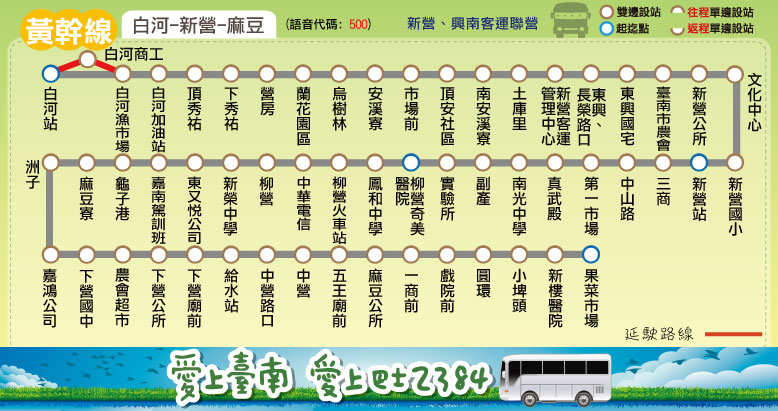
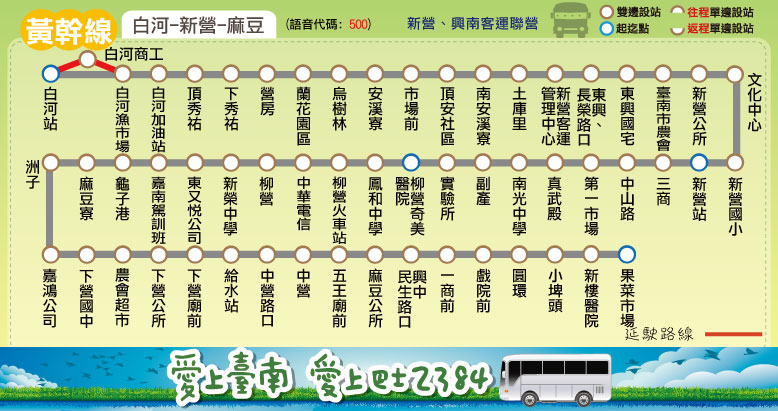
finished yellow line, modify to show special_tag and skip_stop concurrently

Changed region(s): [[0.5861, 0.5839, 0.8329, 0.8175], [0.4936, 0.6423, 0.5861, 0.7883]]

diff --git a/yellow/yellow.html b/yellow/yellow.html
@@ -2,28 +2,28 @@
 <html xmlns="http://www.w3.org/1999/xhtml">
 <head>
 <meta http-equiv="Content-Type" content="text/html; charset=utf-8" />
-<title>大台南公車 ─ 橘幹線 路線資訊</title>
+<title>大台南公車 ─ 黃幹線 路線資訊</title>
 <meta name="keywords" content="" />
 <meta name="description" content="" />
 <style type="text/css">
 @import url("../css/table_style.css");
 @import url("../css/default.css");
-select.get_fare{background-color: #ff7f05;}
+select.get_fare{background-color: #FFD306;}
 select.get_fare option.option1
-{background-color: #ff7f05;}
+{background-color: #FFD306;}
 select.get_fare option.option2
-{background-color: #FFC991;}
+{background-color: #FDFF73;}
 select.get_fare option.option3
-{background-color: #FFAC55;}
+{background-color: yellow;}
 select.get_fare option.option4
-{background-color: #FFD8AF;}
+{background-color: #FDFF55;}
 select.get_fare option.option5
-{background-color: #FF8F19;}
+{background-color: #D9B300;}
 select.get_fare option.option6
-{background-color: #FFBB73;}
+{background-color: #FCFF19;}
 </style>
 <script language="javascript" src="../route/msg.js"></script>
-<script language="javascript" src="../route/fare_and_time/orange.js"></script>
+<script language="javascript" src="../route/fare_and_time/yellow.js"></script>
 <script language="javascript" src="../route/fare_and_time/show_fare_tool.js"></script>
 </head>
 <body>
@@ -31,7 +31,7 @@ select.get_fare option.option6
 	<div id="header" class="container">
 		<div id="menu">
 			<p align="center">
-			<a href="index.html"><img src="../img/orange_logo.png"></a>
+			<a href="index.html"><img src="../img/yellow_logo.png"></a>
 			</p>
 			<ul>
 				<li class="current_page_item"><a href="#" accesskey="1" title="">路線圖</a></li>
@@ -42,9 +42,9 @@ select.get_fare option.option6
 			</ul>
 		</div>
 		<div id="logo">
-			<img src="../route/orange/orange.jpg">
+			<img src="../route/yellow/yellow.jpg">
 			<p></p>
-			<iframe src="https://mapsengine.google.com/map/embed?mid=zT0XIOZRtlhg.kR8K7xUyvQtw" width="800" height="500"></iframe>
+			<iframe src="https://mapsengine.google.com/map/embed?mid=zT0XIOZRtlhg.kbnckjpTnNGs" width="800" height="500"></iframe>
 		</div>
 	</div>
 </div>
@@ -52,21 +52,21 @@ select.get_fare option.option6
 	<a name="info"></a>
 	<div id="routeinfo" class="container">
 		<div class="title">
-			<h2>大台南公車 ─ 橘幹線　路線資訊</h2>
-			<span class="byline">Tainan Bus orange Line, Route Information</span> </div>
+			<h2>大台南公車 ─ 黃幹線　路線資訊</h2>
+			<span class="byline">Tainan Bus yellow Line, Route Information</span> </div>
 		<div class="content">
 			<table border="0">
 				<tr>
 					<td>起訖點</td>
-					<td>佳里 － 玉井</td>
+					<td>白河 － 麻豆</td>
 				</tr>
 				<tr>
 					<td>營運公司</td>
-					<td>興南客運</td>
+					<td>新營客運、興南客運</td>
 				</tr>
 				<tr>
 					<td>首／末班車發車時刻</td>
-					<td>往 玉井：05:55／21:25<br />往 佳里：05:55／21:25</td>
+					<td>往 麻豆：06:00／20:00<br />往 白河：06:00／20:00</td>
 				</tr>
 				<tr>
 					<td>班距</td>
@@ -78,7 +78,7 @@ select.get_fare option.option6
 				</tr>
 			</table>
 			<p>　</p>
-			<a href="http://2384.tainan.gov.tw:8080/AGPSRemoteQuery3/ajaxBus.jsp?pathId=1400&locale=zh_TW" class="button">公車動態資訊</a> </div>
+			<a href="http://2384.tainan.gov.tw:8080/AGPSRemoteQuery3/ajaxBus.jsp?pathId=1500&locale=zh_TW" class="button">公車動態資訊</a> </div>
 	</div>
 </div>
 <div id="wrapper3">
@@ -89,7 +89,7 @@ select.get_fare option.option6
 			<span class="byline">Ticket Fare</span> </div>
 		<div class="content">
 			<script language="javascript">
-				create_select_menu(orange_interval_stop, 6, 'orange');
+				create_select_menu(yellow_interval_stop, 6, 'yellow');
 			</script>
 			<br/>
 			<table>
@@ -109,7 +109,7 @@ select.get_fare option.option6
 			</table>
 			<p>　</p>
 			<script language="javascript">
-				print_fare_table(orange_interval_name, orange_fare, '#FFC991');
+				print_fare_table(yellow_interval_name, yellow_fare, '#FDFF73');
 				document.write('<p>　</p>');
 				document.write(MeteredMSG + PromotionMSG);
 			</script>
@@ -125,13 +125,14 @@ select.get_fare option.option6
 			<span class="byline">Bus schedule</span> </div>
 		<div class="content">
 			<script language="javascript">
-				document.write('<h2><font color="orange">佳里-&gt;玉井</font></h2>');
-				create_time_schedule(orange_main_stop_name, orange_main_stop_time_consume, orange_important_stop, orange_time_go, false);
+				document.write('<h2><font color="orange">白河-&gt;麻豆</font></h2>');
+				create_time_schedule(yellow_main_stop_name, yellow_main_stop_time_consume, yellow_important_stop, yellow_time_go, false);
 				document.write('<p>　</p>');
-				document.write('<h2><font color="orange">玉井-&gt;佳里</font></h2>');
-				create_time_schedule(orange_main_stop_name, orange_main_stop_time_consume, orange_important_stop, orange_time_return, true);
+				document.write('<h2><font color="orange">麻豆-&gt;白河</font></h2>');
+				create_time_schedule(yellow_main_stop_name, yellow_main_stop_time_consume, yellow_important_stop, yellow_time_return, true);
 				document.write(TimeScheduleMSG);
 			</script>
+			<h3><font color="#000055">「繞」表示繞駛白河商工</font></h3>
 		</div>
 	</div>
 </div>
@@ -139,19 +140,19 @@ select.get_fare option.option6
 	<a name="transfer"></a>
 	<div id="transfer" class="container">
 		<div class="title">
-			<h2>大台南公車－橘幹線 主要轉乘點資訊</h2>
-			<span class="byline">Tainan bus orange line, Transfer information</span>
+			<h2>大台南公車－黃幹線 主要轉乘點資訊</h2>
+			<span class="byline">Tainan bus yellow line, Transfer information</span>
 		</div>
 		<div class="content">
 			<table>
 				<tr>
-					<th rowspan="7">善化火車站</th>
+					<th rowspan="7">新營</th>
 					<td style="text-align: center"><img src="../route/transfer/railway.png"></td>
-					<td>台鐵善化站</td>
+					<td>台鐵新營站</td>
 				</tr>
 				<tr>
-					<td style="text-align: center"><img src="../route/transfer/orange_transfer_logo.png"></td>
-					<td>橘幹線</td>
+					<td style="text-align: center"><img src="../route/transfer/brown_transfer_logo.png"></td>
+					<td>棕幹線</td>
 				</tr>
 				<tr>
 					<td style="text-align: center"><img src="../route/transfer/yellow_transfer_logo.png"></td>

diff --git a/route/fare_and_time/yellow.js b/route/fare_and_time/yellow.js
@@ -1,0 +1,48 @@
+yellow_interval_name = ["白河","下秀祐","營房","烏樹林","安溪寮","新營","副產","柳營","龜子港","麻豆寮","下營","中營","麻豆"];
+yellow_interval_stop = [
+["白河","白河商工","白河漁市場","白河加油站"], // 白河
+["頂秀祐","下秀祐"], // 下秀祐
+["營房"], // 營房
+["蘭花園區","烏樹林"], // 烏樹林
+["安溪寮","市場前","頂安社區","南安溪寮","土庫里"], // 安溪寮
+["新營客運管理中心","東興、長榮路口","東興國宅","臺南市農會","新營公所","文化中心",
+"新營國小","新營","三商","中山路","第一市場","真武殿","南光中學"], // 新營
+["副產","實驗所"], // 副產
+["柳營奇美醫院","鳳和中學","柳營火車站","中華電信","柳營","新榮中學","東又悅公司"], // 柳營
+["嘉南駕訓班","龜子港"], // 龜子港
+["麻豆寮","洲子","嘉鴻公司"], // 麻豆寮
+["下營國中","農會超市","下營公所","下營廟前"], // 下營
+["給水站","中營路口","中營"], // 中營
+["五王廟前","麻豆公所","興中、民生路口","一商前","戲院前","圓環","小埤頭","新樓醫院","果菜市場"] // 麻豆
+];
+yellow_fare = [
+[26],
+[26,26],
+[26,26,26],
+[26,26,26,26],
+[26,26,26,26,26],
+[42,37,34,28,26,26],
+[51,46,43,36,30,26,26],
+[65,60,57,51,44,26,26,26],
+[74,69,66,60,54,32,26,26,26],
+[80,75,72,66,60,38,29,26,26,26],
+[93,88,84,78,72,51,42,28,26,26,26],
+[103,98,95,89,82,61,52,38,29,26,26,26],
+[133,128,125,119,112,91,82,68,59,53,40,30,26]
+];
+// format = [time at the start stop] or
+// [time, other] or
+// [time, start_stop, end_stop, other]
+yellow_main_stop_name = ["白河","蘭花園區","新營","柳營<br />奇美醫院","柳營<br />火車站","麻豆寮","下營公所","一商前","果菜市場"];
+yellow_main_stop_time_consume = [0, 9, 25, 33, 36, 46, 53, 71, 80];
+yellow_important_stop = [0, 2, 8]; // 白河, 新營, 果菜市場
+yellow_time_go = [["6:00",[1]],["6:20",0,2,[1]],["6:30",[1]],["6:45",0,3,[1]],["7:15",0,2,[1]],["7:30",[1]],
+["8:00",0,2],["8:30"],["9:00",0,2],["9:30"],["10:00",0,2],["10:30"],["11:00",0,2],["11:30"],["12:00",0,2],
+["12:30"],["13:00",0,2],["13:30"],["14:00",0,2],["14:30"],["15:00",0,2],["15:30"],["16:00",0,2],["16:30"],
+["17:00",0,2],["17:30",['繞',1]],["18:00",[1]],["18:15",0,2,[1]],["18:30",0,2,[1]],["19:00",[1]],["20:00",[1]]
+];
+yellow_time_return = [["6:20",2,0,[1]],["6:45",2,0,[1]],["6:50",2,0,[1]],["6:00",['繞',1]],["6:30",[1]],["7:55",2,0],
+["7:30"],["8:55",2,0],["8:30"],["9:55",2,0],["9:30"],["10:55",2,0],["10:30"],["11:55",2,0],["11:30"],["12:55",2,0],
+["12:30"],["13:55",2,0],["13:30"],["14:55",2,0],["14:30"],["15:55",2,0],["15:30"],["16:30",2,0],["17:00",2,0],["16:30",[1]],
+["17:55",2,0,[1]],["17:30",[1]],["18:00",[1]],["19:00",[1]],["20:00",[1]]
+];

diff --git a/route/fare_and_time/show_fare_tool.js b/route/fare_and_time/show_fare_tool.js
@@ -63,8 +63,8 @@ function create_time_schedule(main_stop_name, time_consume, important_stop, time
 		}
 		document.write('<tr>');
 		if( Array.isArray(special_tag)==true ){ // special_tag is an array storing forbidden stop
-			forbidden = special_tag; // store those stops in the array named 'forbidden'
-			special_tag = ''; // clear special_tag
+			forbidden = special_tag[1]; // store those stops in the array named 'forbidden'
+			special_tag = special_tag[0]; // store real special tag to special_tag 
 		}
 		else forbidden = []; // otherwise, be a empty array
 		for(var j=start_idx; j!=end_idx; j=(isReturn==false)?(j+1):(j-1) ){
@@ -89,16 +89,17 @@ function create_time_schedule(main_stop_name, time_consume, important_stop, time
 
 function get_special_tag(arr){ // add some tags of special events
 	var special_event = ''; // initialize
+	var skip_stop_array = [];
+	var count = 0;
 	for(var j=0; j<arr.length; ++j){
 		if(arr[j]=='W') // drive in weekdays
 			special_event += '<font color="#0000FF">W</font>';
 		else if(arr[j]=='L') // use low floor bus
 			special_event += '<font color="#FF0000">L</font>';
-		else if( !isNaN(arr[j]) ) return arr;
+		else if( !isNaN(arr[j]) ) skip_stop_array[count++] = arr[j];
 		else special_event += arr[j];
 	}
-	//alert(special_event);
-	return special_event;
+	return skip_stop_array.length==0 ? special_event : [special_event, skip_stop_array];
 }
 function judge_important_stop(idx, arr){ // find the index matching the important stop or not
 	for(var i=0; i<arr.length; ++i){

diff --git a/yellow/index.html b/yellow/index.html
@@ -11,6 +11,7 @@
 #branch{
  color:#fab12e;
 }
+a { color:#fab12e; }
 </style>
 </head>
 
@@ -26,7 +27,7 @@
   <td valign="top">
    <table>
 	<tr>
-		<td id="mainline">黃幹線</td>
+		<td id="mainline"><a href="yellow.html">黃幹線</a></td>
 		<td>白河 ─ 新營 ─ 麻豆</td>
 	</tr>
 	<tr>
